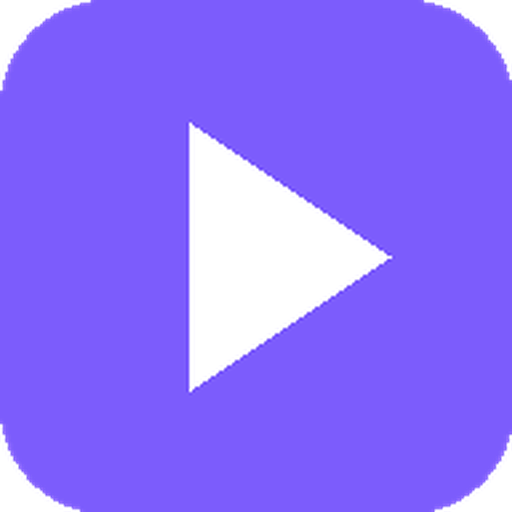
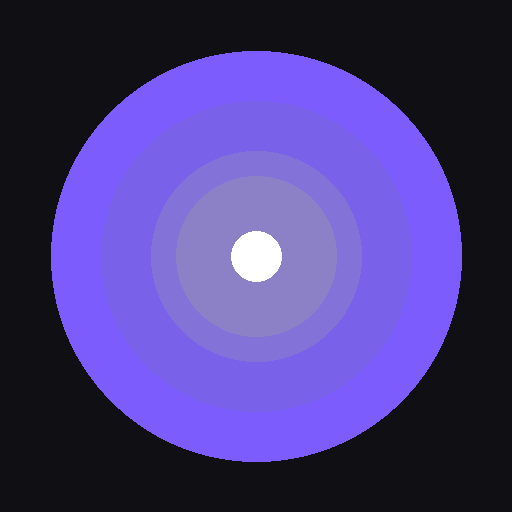
统一 PWA 图标为同心圆风格，修复 gen 图标 404
- gen: 新增 icon-192.png / icon-512.png，gen_server.py 注册到 _static
- i2v: 替换三角形→同心圆风格（i2v-icon-192/512.png）
- gen 平板 PWA 不工作的根因：manifest 引用图标但文件不存在→404

diff --git a/gen_server.py b/gen_server.py
@@ -60,7 +60,12 @@ class GenHandler(SimpleHTTPRequestHandler):
         if self._parsed_path == "/":
             self._parsed_path = "/gen.html"
         
-        _static = {"/gen.html": "text/html", "/gen-manifest.json": "application/json"}
+        _static = {
+            "/gen.html": "text/html",
+            "/gen-manifest.json": "application/json",
+            "/icon-192.png": "image/png",
+            "/icon-512.png": "image/png",
+        }
         if self._parsed_path in _static:
             fp = GEN_DIR / self._parsed_path.lstrip("/")
             if fp.exists():
